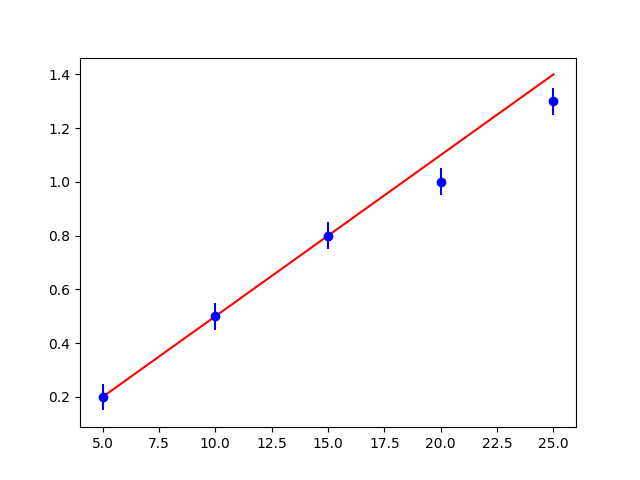
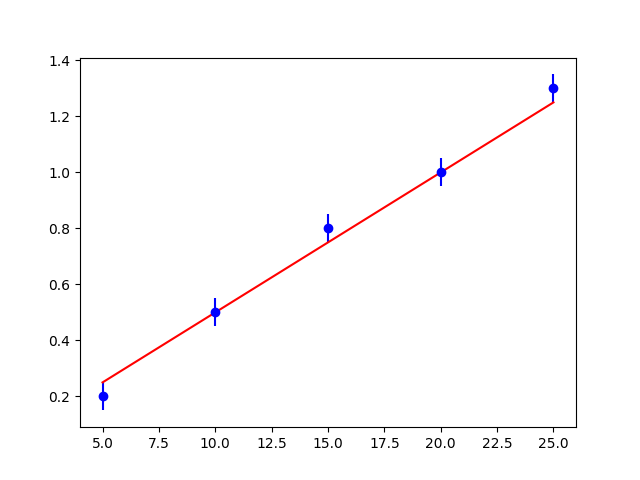
q13

diff --git a/main5.py b/main5.py
@@ -1,0 +1,37 @@
+import numpy as np
+import matplotlib.pyplot as plt
+
+x=np.array([5,10,15,20,25])
+y=np.array([0.2,0.5,0.8,1.0,1.3])
+yerror=np.array([0.05,0.05,0.05,0.05,0.05])
+count=0
+minchi2=10000
+minslope=0.0
+start=0
+stop=1
+step=0.001
+trend=[]
+print("Your estimate was 0.05\n")
+
+for slope in np.arange(start, stop, step):
+  count=0
+  for i in x:
+    trend.append(((float(y[count])-(slope*i))**2)-(yerror[count])**2)
+    count+=1
+  chi2=np.sum(trend)
+  trend=[]
+  if(chi2<minchi2):
+    minchi2=chi2
+    minslope=slope
+print("trend:",minslope,"\n")
+
+fx1=minslope*x
+fx=0.05*x
+
+print("The difference between your estimate and the trend is",(minslope-0.05),"\n")
+print("The trend is green. Your estimate is red") 
+
+plt.errorbar(x,y,yerror,fmt='bo')
+plt.plot(x,fx,'r-')
+plt.plot(x,fx1,'g-')
+plt.show()

diff --git a/main4.py b/main4.py
@@ -7,7 +7,7 @@ yerror=np.array([0.05,0.05,0.05,0.05,0.05])
 #the next line is the model prediction,
 #where we make some initial guess
 #what the slope of the line will be
-fx=0.06*x-0.1
+fx=0.05*x
 plt.errorbar(x,y,yerror,fmt='bo')
 plt.plot(x,fx,'r-')
 plt.show()
